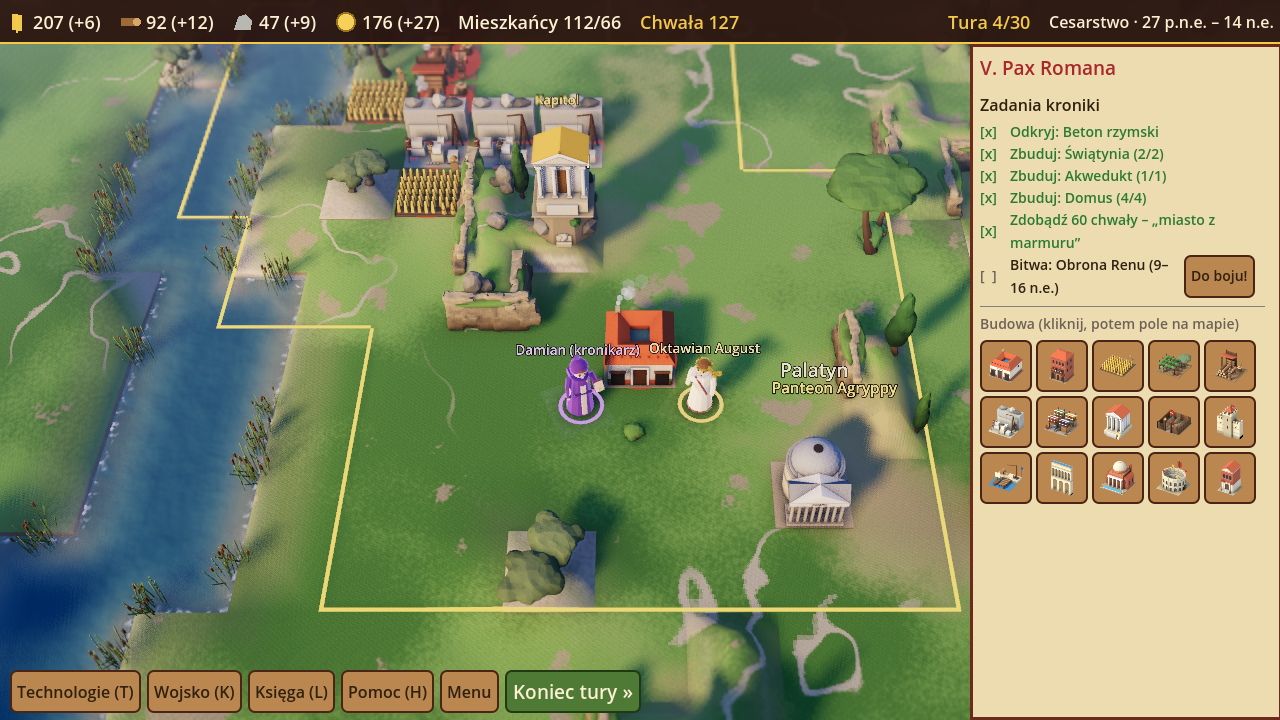
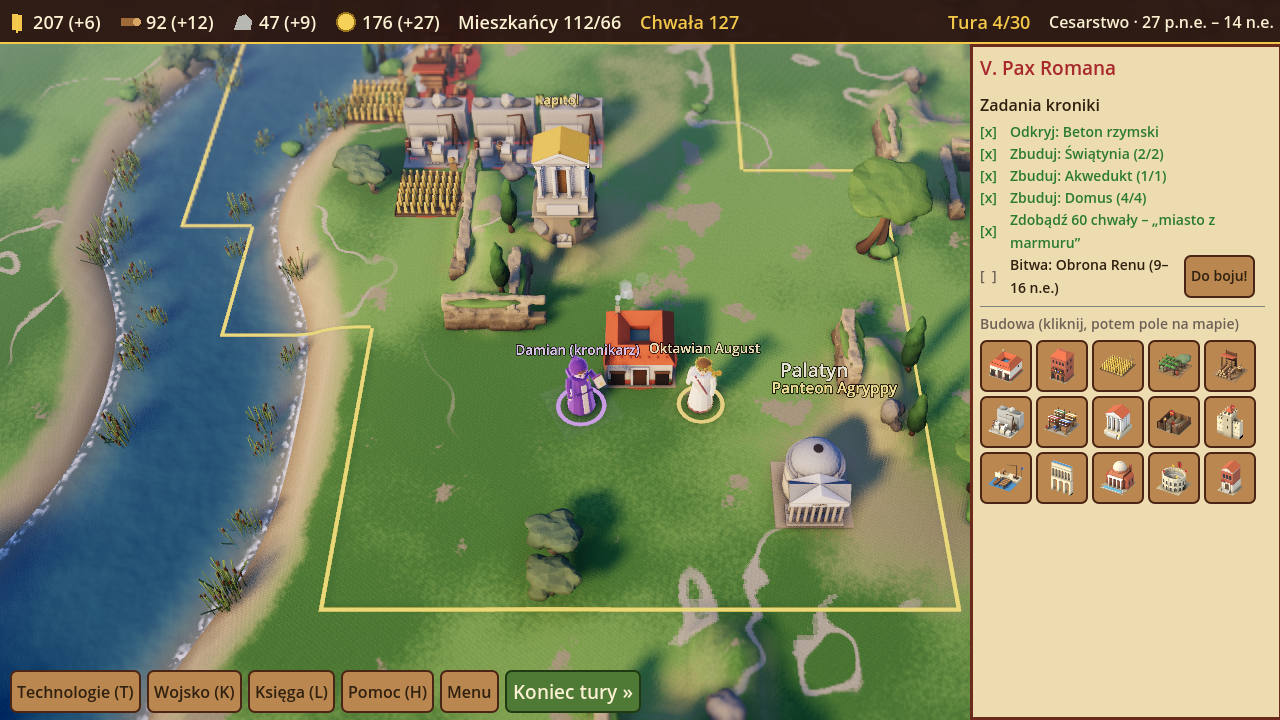
Roman Empire 3D: gładki brzeg rzek i morza zamiast schodków z pól
- teren i woda jako jedna siatka (0,5 m) z rozmytej maski wody: brzeg to
  izolinia maski – krzywa zamiast granic pól, bez ciemnej skarpy
- silne rozmycie wygładza zakola i ukośne odcinki, słabe zachowuje wąskie cieki
- niższe lustro wody (-0,34), łagodny stok brzegu z pasem suchego piasku,
  mokrego mułu i ciemnego dna po obu stronach
- płynne przejścia wysokości między plażą, bagnem i łąką; trzciny na dnie
  płycizny, galera na lustrze wody, zagony brodzą przez rzekę
- teren_h() jako wspólna wysokość terenu dla dekoracji, granic i siatki budowy

Claude-Session: https://claude.ai/code/session_01HT9RCQ9Ckd1riJVCiqzjVo

diff --git a/rzym3d/README.md b/rzym3d/README.md
@@ -147,11 +147,13 @@ Drzewa zostają low-poly, ale mają charakterystyczne sylwetki (`blender/generuj
 
 Woda ma własny shader (`_material_wody()` w `gra.gd`), działający tak samo w przeglądarce i na komputerze:
 
-- **Koryta i dno**: rzeki i morze leżą niżej niż ląd, więc powstają brzegi – niska ziemista skarpa nad lustrem wody.
-  Dno opada łagodnie od brzegu (siatka 4 × 4 na pole, głębokość liczona z odległości od lądu): przy brzegu piasek
-  i muł, w nurcie Tybru i na pełnym morzu ciemna głębia.
+- **Gładki brzeg zamiast schodków**: teren i woda to jedna siatka (komórki 0,5 m) liczona z rozmytej maski wody
+  (silne rozmycie ≈ gauss 1,7 m wygładza zakola i ukośne odcinki, słabe zachowuje wąskie cieki). Linia brzegu to
+  izolinia tej maski – krzywa zamiast granic pól, bez ciemnej skarpy. Lustro wody leży niżej (–0,34), a ląd schodzi
+  do niego łagodnym stokiem z pasem suchego piasku, mokrego mułu i ciemnego dna po obu stronach rzeki.
 - **Przezroczystość zależna od głębokości**: przy brzegu widać dno przez turkusową płyciznę, dalej woda gęstnieje
-  w granat. Głębokość jest zapisana w wierzchołkach powierzchni wody (nie wymaga bufora głębi, więc działa też w WebGL).
+  w granat. Głębokość (lustro minus dno z siatki terenu) jest zapisana w wierzchołkach powierzchni wody (nie wymaga
+  bufora głębi, więc działa też w WebGL).
 - **Fale**: dwie normal mapy (szum generowany w grze) przewijane w różnych kierunkach i skalach oraz delikatne
   kołysanie lustra wody.
 - **Piana przy brzegu**: poszarpany szumem pas płytkiej wody, pulsujący jak przybój – wzdłuż brzegów Tybru i plaż.

diff --git a/rzym3d/AGENTS.md b/rzym3d/AGENTS.md
@@ -77,8 +77,8 @@ Układ: **1 pole mapy = 2 m** (Godot: 2 jednostki), model stoi na z=0, środek p
 - Wierzch lądu: shader `_material_terenu()`; w kolorze wierzchołków rgb = kolor typu terenu (`_kolor_terenu`),
   a = udział trawy (`WAGA_TRAWY`), uśrednione w narożnikach (`_kolor_rogu`). Siatka budowy: `odswiez_siatke_budowy()`.
 
-- Pola `~` i `m` mają w `dane.py` wysokość stopy brzegu (-0.3); dno liczy `_dno()` z odległości od lądu, lustro wody
-  to `POZIOM_WODY` (-0.18). Shader wody: `_material_wody()` (głębokość w `COLOR.r` wierzchołków powierzchni).
+- Teren i dno: jedna siatka `RES`×`RES` na pole z rozmytej maski wody (`_przygotuj_teren()`, `_rozmyj()`); wysokość w punkcie
+  `teren_h()`, lustro `POZIOM_WODY` (-0.34). Shader wody: `_material_wody()` (głębokość w `COLOR.r` wierzchołków powierzchni).
 
 ## Polecenia
 
